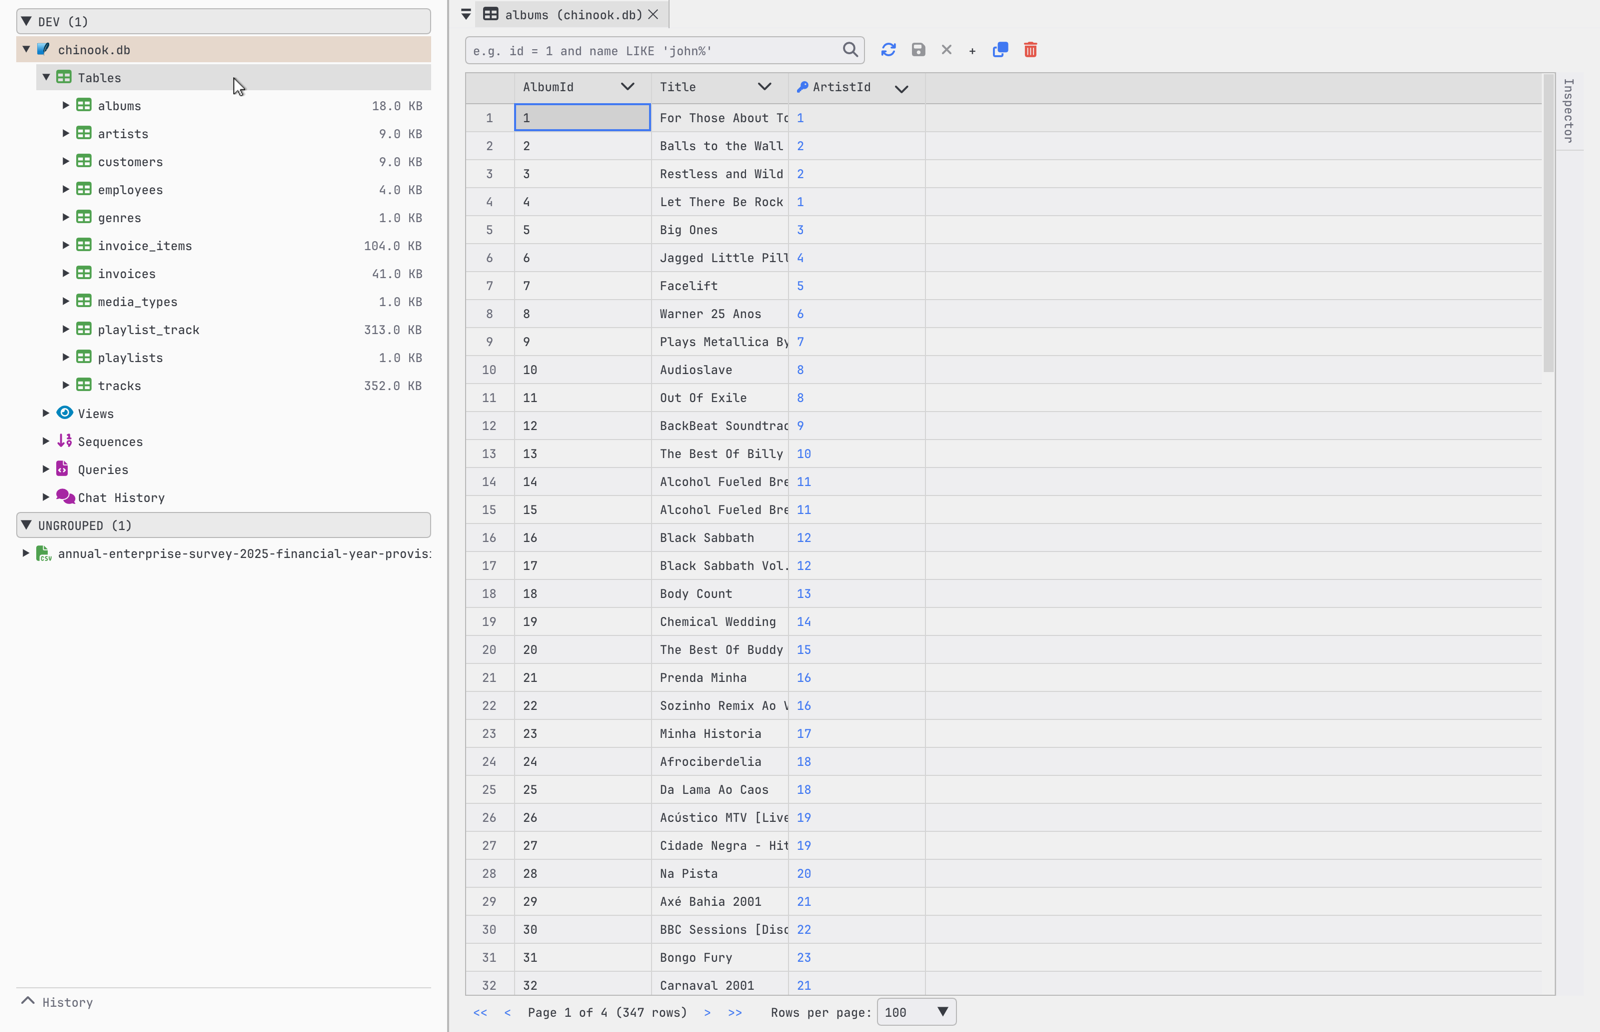
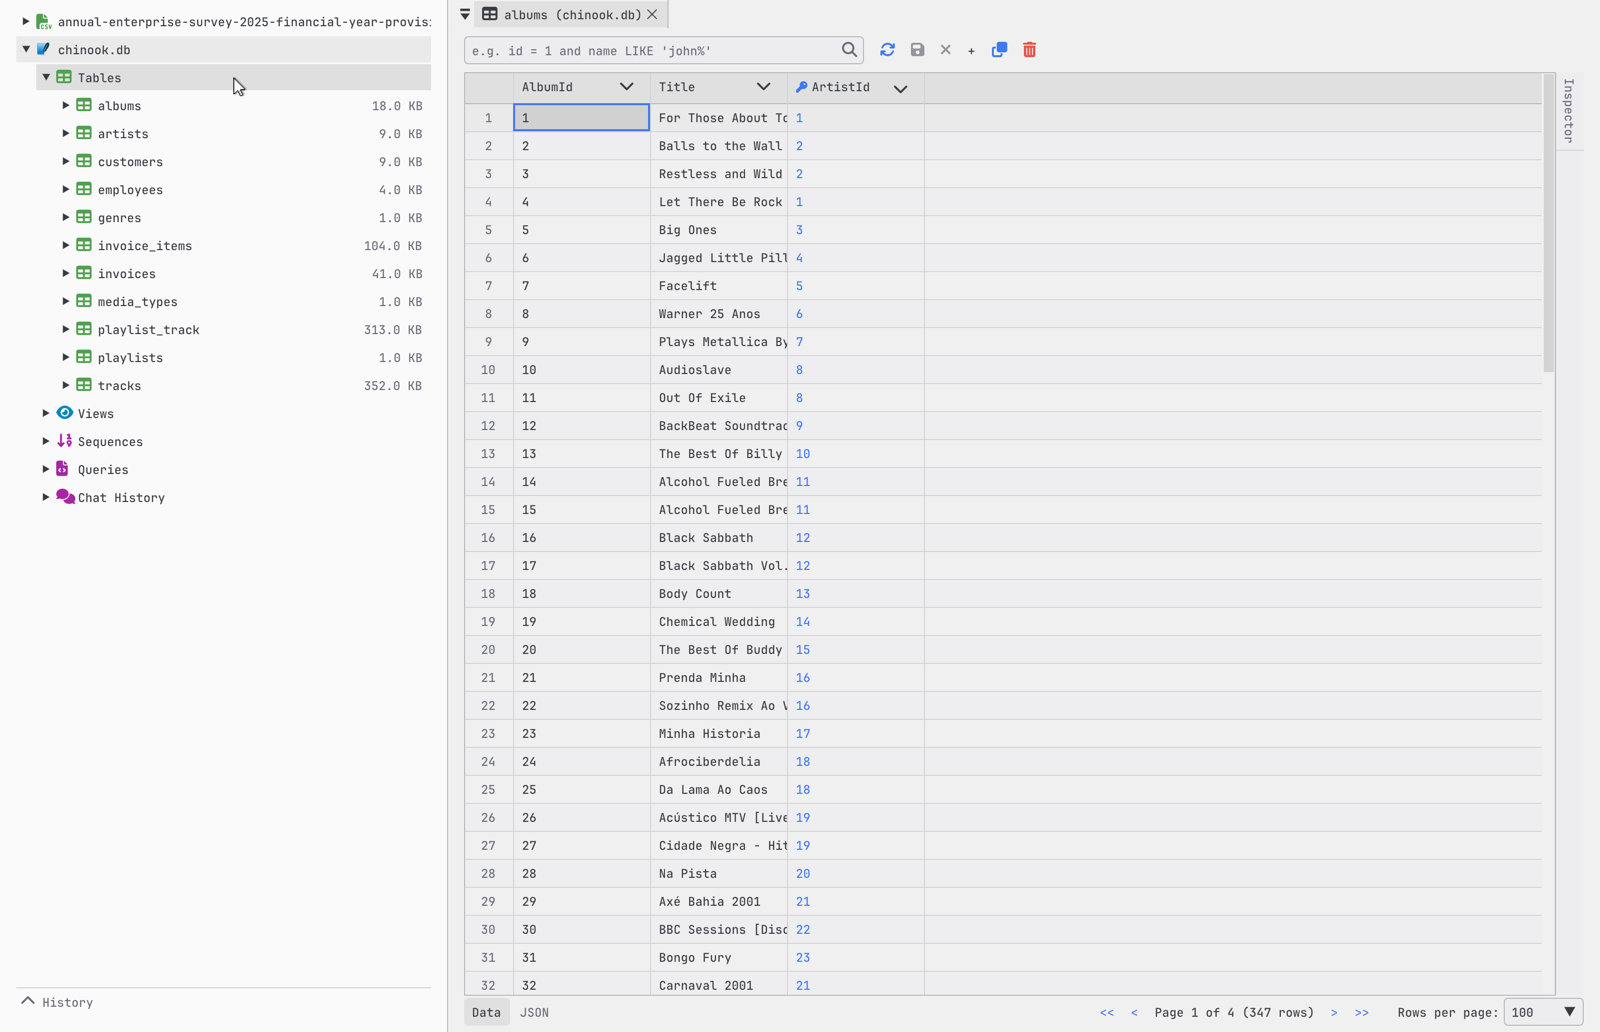
docs: json view, results footer

diff --git a/src/data/releases.ts b/src/data/releases.ts
@@ -32,6 +32,7 @@ export const releases: Release[] = [
       "SQL editor: Opt+Backspace deletes a word and Cmd+Backspace the rest of the line (Ctrl+Backspace and Ctrl+Shift+Backspace on Linux and Windows).",
       "SQL editor: typing in long scripts is faster, and an idle editor no longer re-highlights its whole text every frame.",
       "SQLite: foreign keys are enforced by default, so ON DELETE CASCADE and blocked deletes work as declared (SQLite itself leaves them off).",
+      "JSON view: results and tables switch between the grid and the rows as JSON.",
       "Delete preview: saving deletes shows the rows foreign keys reach in other tables, deleted by a cascade, set to NULL, or blocking the delete.",
       "Open Quickly: press ⌘P (Ctrl+P) to jump to any loaded table or view by name.",
       "SQL editor: query parameters. Write :name in a query and DearSQL asks for the values before running.",

diff --git a/src/pages/docs/browsing-data.md b/src/pages/docs/browsing-data.md
@@ -25,7 +25,9 @@ It searches what the sidebar has already loaded, so expand a database first if i
 
 <img src="/docs/table-grid.png" alt="A table open in the grid, with the filter box above and paging controls below" width="800" />
 
-The table viewer pages through data rather than loading everything: pick 10 to 500 rows per page at the bottom, and move with the arrow buttons. The row count is the real total, not the size of the page.
+The table viewer pages through data rather than loading everything: pick 10 to 500 rows per page at the bottom right, and move with the arrow buttons. The row count is the real total, not the size of the page.
+
+**Data** and **JSON** at the bottom left switch between the grid and the page as a JSON array of objects, one per row: NULL as `null`, booleans as `true`/`false`, and numbers as numbers (values such as `007` stay strings). Select and copy from it like any text.
 
 Click a column header to sort. Sorting is done by the database, so it applies across every page, not just the rows on screen.
 

diff --git a/src/pages/docs/sql-editor.md b/src/pages/docs/sql-editor.md
@@ -80,7 +80,7 @@ A saved script remembers the connection, database and schema it was written agai
 
 ## Results
 
-Results appear below the editor in the same grid used for browsing tables, so sorting, resizing and copying behave identically. Every executed query is added to **History**, the collapsible panel at the bottom of the sidebar, with its row count and duration.
+Results appear below the editor in the same grid used for browsing tables, so sorting, resizing and copying behave identically. Under the grid, **Data** and **JSON** switch to the rows as a JSON array, with the row count and run time on the right. Drag the top edge of the results to resize them. Every executed query is added to **History**, the collapsible panel at the bottom of the sidebar, with its row count and duration.
 
 ## Assistant
 
